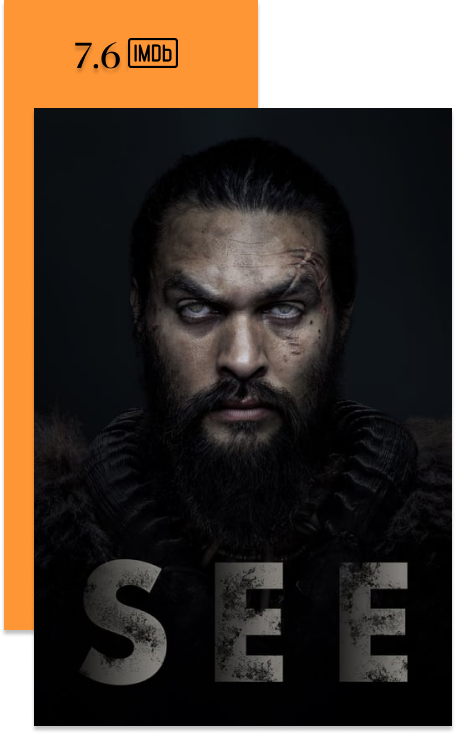
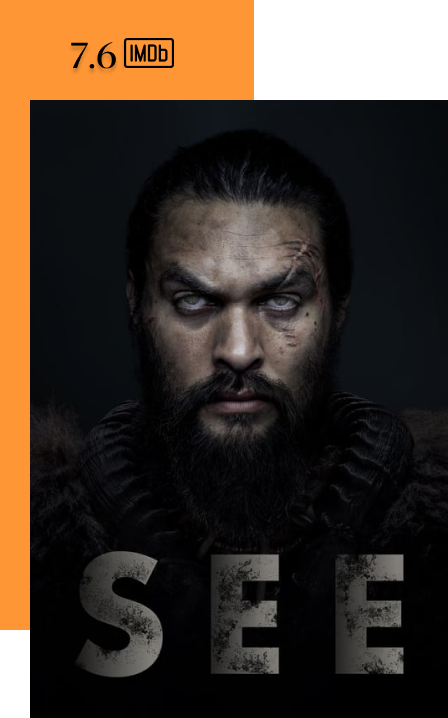
Add some changes to style2.css

diff --git a/index.html b/index.html
@@ -14,9 +14,9 @@
     <link rel="stylesheet" href="./styles/style2.css"/>
     <link rel="preconnect" href="https://fonts.googleapis.com">
     <link rel="preconnect" href="https://fonts.gstatic.com" crossorigin>
-    <link href="https://fonts.googleapis.com/css2?family=Montserrat:wght@500&display=swap" rel="stylesheet">
-    <link href="https://fonts.googleapis.com/css2?family=Montserrat:wght@500;600&display=swap" rel="stylesheet">
-    <link href="https://fonts.googleapis.com/css2?family=Montserrat:ital,wght@0,400;0,500;0,600;1,300&display=swap" rel="stylesheet">
+    <link rel="preconnect" href="https://fonts.googleapis.com">
+    <link rel="preconnect" href="https://fonts.gstatic.com" crossorigin>
+    <link href="https://fonts.googleapis.com/css2?family=Montserrat:wght@400;500;600&display=swap" rel="stylesheet">
 </head>
 <body>
     <header class="Header-Style">
@@ -43,17 +43,16 @@
             <article><a href="#"><img width="194.73px" height="293px" src="/images/Rick_and_Morty_poster.png" alt="The poster of Rick and Morty TV-show"></a></article>
             <article><a href="#"><img width="140px" height="293px" src="./images/12monkeys_poster.png" alt="The poster of 12 monkeys TV-show"></a></article>
             <h1>Most Popular<br> TV Shows</h1>
-            <p>New shows come to the streaming giant all the time — too many<br>to ever watch them all. 
+            <p class="top_p_style">New shows come to the streaming giant all the time — too many<br>to ever watch them all. 
                 We&#8242;re here to help. Here is a list of the most<br>rated TV shows according to IMDb.</p>
         </section>
-        <img width="9px" height="192px" src="./images/Arrow_Picture.png" role="presentation" aria-hidden="true">
-        <br><br><br><br>
+        <!--<img class="Top_Arrow" width="9px" height="192px" src="./images/Arrow_Picture.png" role="presentation" aria-hidden="true">-->
         <section>
-            <article><img height="726px" width="448" src="./images/See_Poster.png" role="presentation" aria-hidden="true"></article>
+            <img id="Poster" src="./images/See_Poster.png" role="presentation" aria-hidden="true">
             <div>
                 <h3>01</h3>
                 <h2>See</h2>
-                <p>2019-..., USA</p>
+                <p class="Years_of_release">2019-..., USA</p>
                 <p>Far in a dystopian future, the human race has<br>lost the sense of sight,
                 and society has had to<br>find new ways to interact, build, hunt, and to<br>survive.
                 All of that is challenged when a set of<br>twins is born with sight.</p>
@@ -72,9 +71,7 @@
                     <button type="button">Watch trailer<img width="30px" height="30px" src="./images/Play.png" 
                         role="presentation" aria-hidden="true"></button>
             </div>
-                <article>
-                    <img src="./images/Haunting_Hill_House.png" role="presentation" aria-hidden="true">
-                </article>
+                    <img id="Poster" src="./images/Haunting_Hill_House.png" role="presentation" aria-hidden="true">
         </section>
         <section>
             <div>
@@ -87,10 +84,10 @@
                     <button type="button">Watch trailer<img width="30px" height="30px" src="./images/Play.png" 
                         role="presentation" aria-hidden="true"></button>
             </div>
-                <img src="./images/SexEducation_Poster.png" role="presentation" aria-hidden="true"/>
+                <img id="Poster-wide" src="./images/SexEducation_Poster.png" role="presentation" aria-hidden="true"/>
         </section>
         <section>
-            <img src="./images/midhunter_poster.png" role="presentation" aria-hidden="true"/>
+            <img id="Poster" src="./images/midhunter_poster.png" role="presentation" aria-hidden="true"/>
             <div>
                 <h3>04</h3>
                 <h2>Mindhunter</h2>
@@ -103,7 +100,7 @@
             </div>
         </section>
         <section>
-            <img src="./images/dark_poster.png" role="presentation" aria-hidden="true"/>
+            <img id="Poster" src="./images/dark_poster.png" role="presentation" aria-hidden="true"/>
             <div>
                 <h3>05</h3>
                 <h2>Dark</h2>
@@ -125,22 +122,22 @@
                 <button type="button">Watch trailer<img width="30px" height="30px" src="./images/Play.png" 
                     role="presentation" aria-hidden="true"></button>
             </div>
-                <img src="./images/peaky_blinders_poster.png" role="presentation" aria-hidden="true"/>
+                <img id="Poster-wide" src="./images/peaky_blinders_poster.png" role="presentation" aria-hidden="true"/>
         </section>
         <section>
-            <img src="./images/black_mirror_poster.png" role="presentation" aria-hidden="true"/>
+            <img id="Poster" src="./images/black_mirror_poster.png" role="presentation" aria-hidden="true"/>
             <div>
                 <h3>07</h3>
                 <h2>Black mirror</h2>
                 <p>2011-..., Great Britain</p>
-                <p>An anthology series exploring a twisted,<br> high-tech multiverse where humanity's<br> greatest
+                <p>An anthology series exploring a twisted,<br> high-tech multiverse where humanity&#8242;s<br> greatest
                     innovations and darkest instincts<br> collide.</p>
                 <button type="button">Watch trailer<img width="30px" height="30px" src="./images/Play.png" 
                         role="presentation" aria-hidden="true"></button>
             </div>
         </section>
         <section>
-            <img src="./images/sherlock_poster.png" role="presentation" aria-hidden="true"/>
+            <img id="Poster" src="./images/sherlock_poster.png" role="presentation" aria-hidden="true"/>
             <div>
                 <h3>08</h3>
                 <h2>Sherlock</h2>
@@ -152,7 +149,7 @@
             </div>
         </section>
         <section>
-            <img src="./images/GoT_poster.png" role="presentation" aria-hidden="true"/>
+            <img id="Poster" src="./images/GoT_poster.png" role="presentation" aria-hidden="true"/>
             <div>
                 <h3>09</h3>
                 <h2>Game of Thrones</h2>
@@ -173,11 +170,11 @@
                         with inoperable lung cancer turns to<br>
                         manufacturing and selling<br> 
                         methamphetamine in order to secure his<br> 
-                        family's future.</p>
+                        family&#8242;s future.</p>
                     <button type="button">Watch trailer<img width="30px" height="30px" src="./images/Play.png" 
                         role="presentation" aria-hidden="true"></button>
             </div>
-                <img src="./images/Breaking_bad_poster.png" role="presentation" aria-hidden="true"/>
+                <img id="Poster-wide" src="./images/Breaking_bad_poster.png" role="presentation" aria-hidden="true"/>
         </section>
         <section>
             <h2>SEE ALSO:</h2>

diff --git a/styles/style2.css b/styles/style2.css
@@ -1,7 +1,91 @@
 .Header-Style {
     background-color: #F08726;
+    font-family: 'Montserrat', sans-serif;
+    font-size: 16px;
 }
 
 .main-screen {
     background-color: #F08726;
+}
+
+h1 {
+    font-family: 'Montserrat', sans-serif;
+    font-size: 100px;
+    font-weight: 600;
+    width: 754px;
+    height: 212px;
+    margin: 33px 623px 30px 63px;
+}
+
+p {
+    font-family: 'Montserrat', sans-serif;
+    font-size: 18px;
+    margin-bottom: 40px;
+    margin-left: 708px;
+}
+
+.top_p_style {
+    margin-right: 735px;
+    margin-bottom: 250px;
+    margin-left: 63px;
+    width: 642px;
+    height: 81px;
+}
+
+/*.Top_Arrow {
+    margin-top: 683px;
+    margin-right: 257px;
+    margin-bottom: 75px;
+    margin-left: 1183px;
+    width: 300px;
+    height: 192px;
+}
+*/
+
+#Poster {
+    height: 718px; 
+    width: 448px;
+
+}
+
+#Poster-wide {
+    height: 661px; 
+    width: 1440px;
+
+}
+
+.Years_of_release {
+    font-family: 'Montserrat', sans-serif;
+    font-size: 20px;
+    margin-left: 708px;
+}
+
+
+
+h3 {
+    color: #F08726;
+    font-family: 'Montserrat', sans-serif;
+    font-weight: 400;
+    font-size: 36px;
+    margin-bottom: 10px;
+    margin-left: 708px;
+}
+
+h2 {
+    color: rgb(00, 00, 00, 90);
+    font-family: 'Montserrat', sans-serif;
+    font-weight: 600;
+    font-size: 52px;
+    margin-bottom: 40px;
+    margin-left: 708px;
+}
+
+button {
+    font-family: 'Montserrat', sans-serif;
+    font-weight: 500;
+    font-size: 18px;
+    color: black;
+    border: none;
+    background-color: white;
+    padding: 15px;
 }
